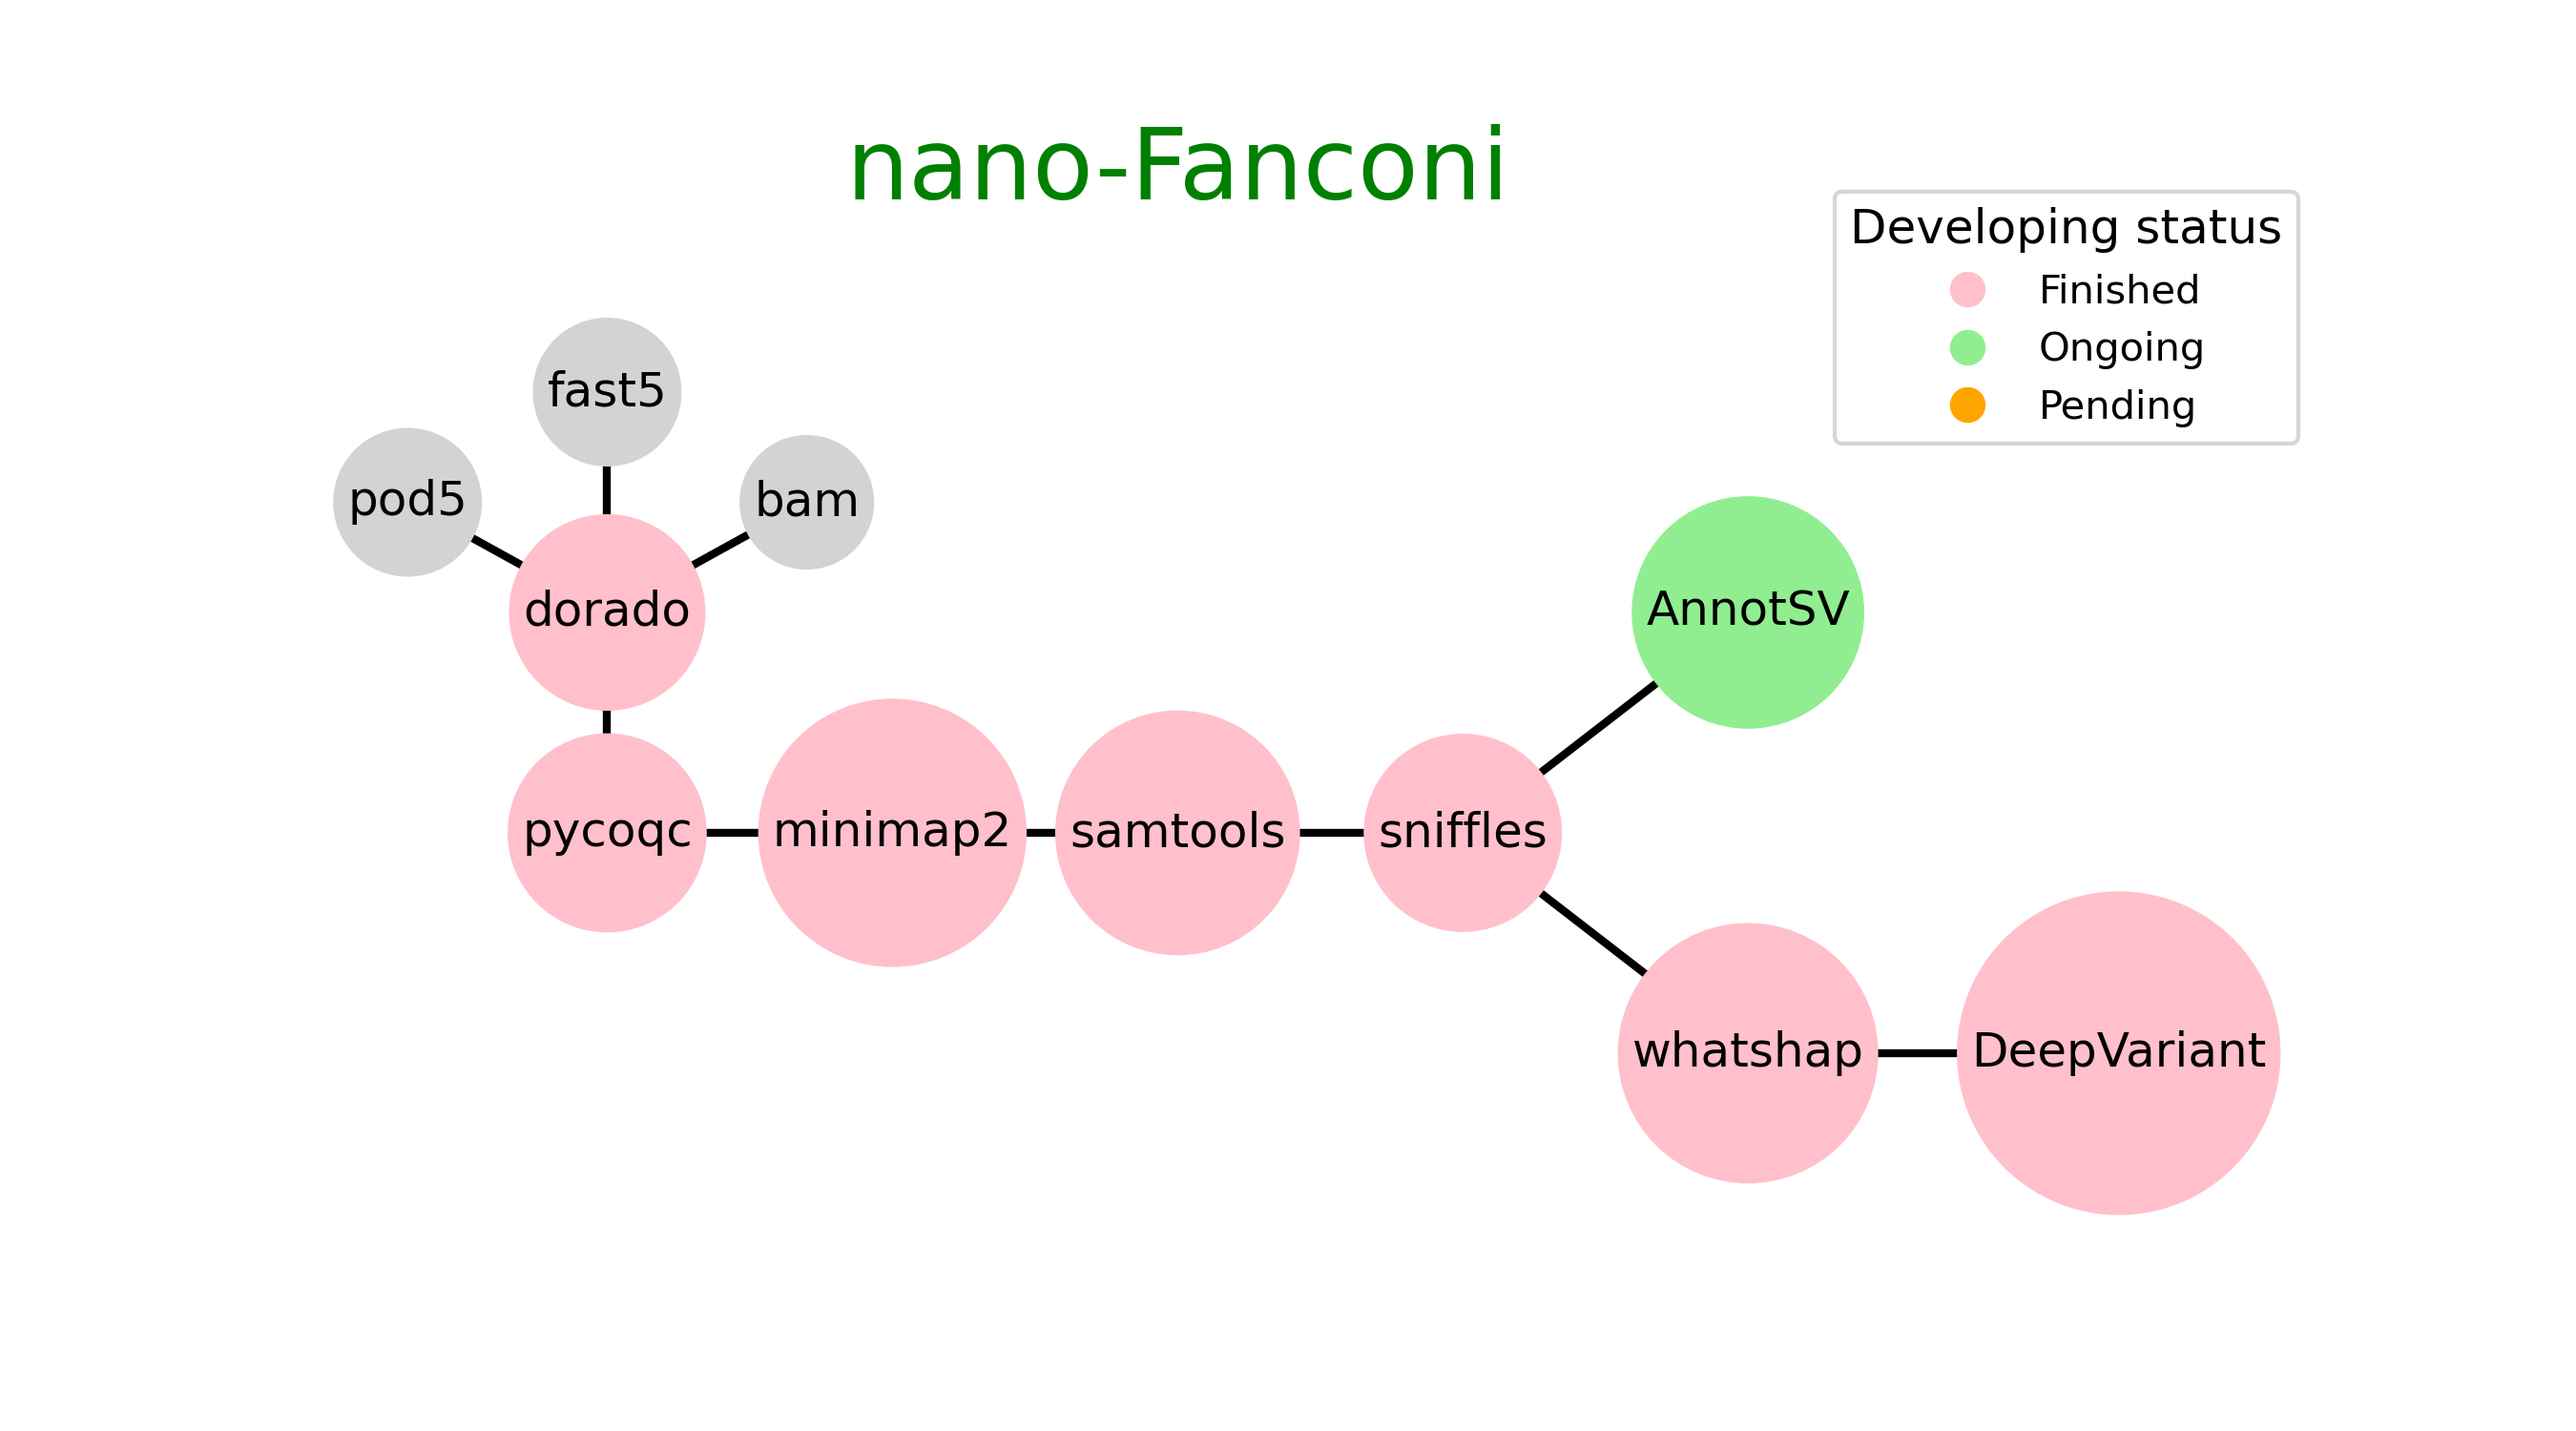
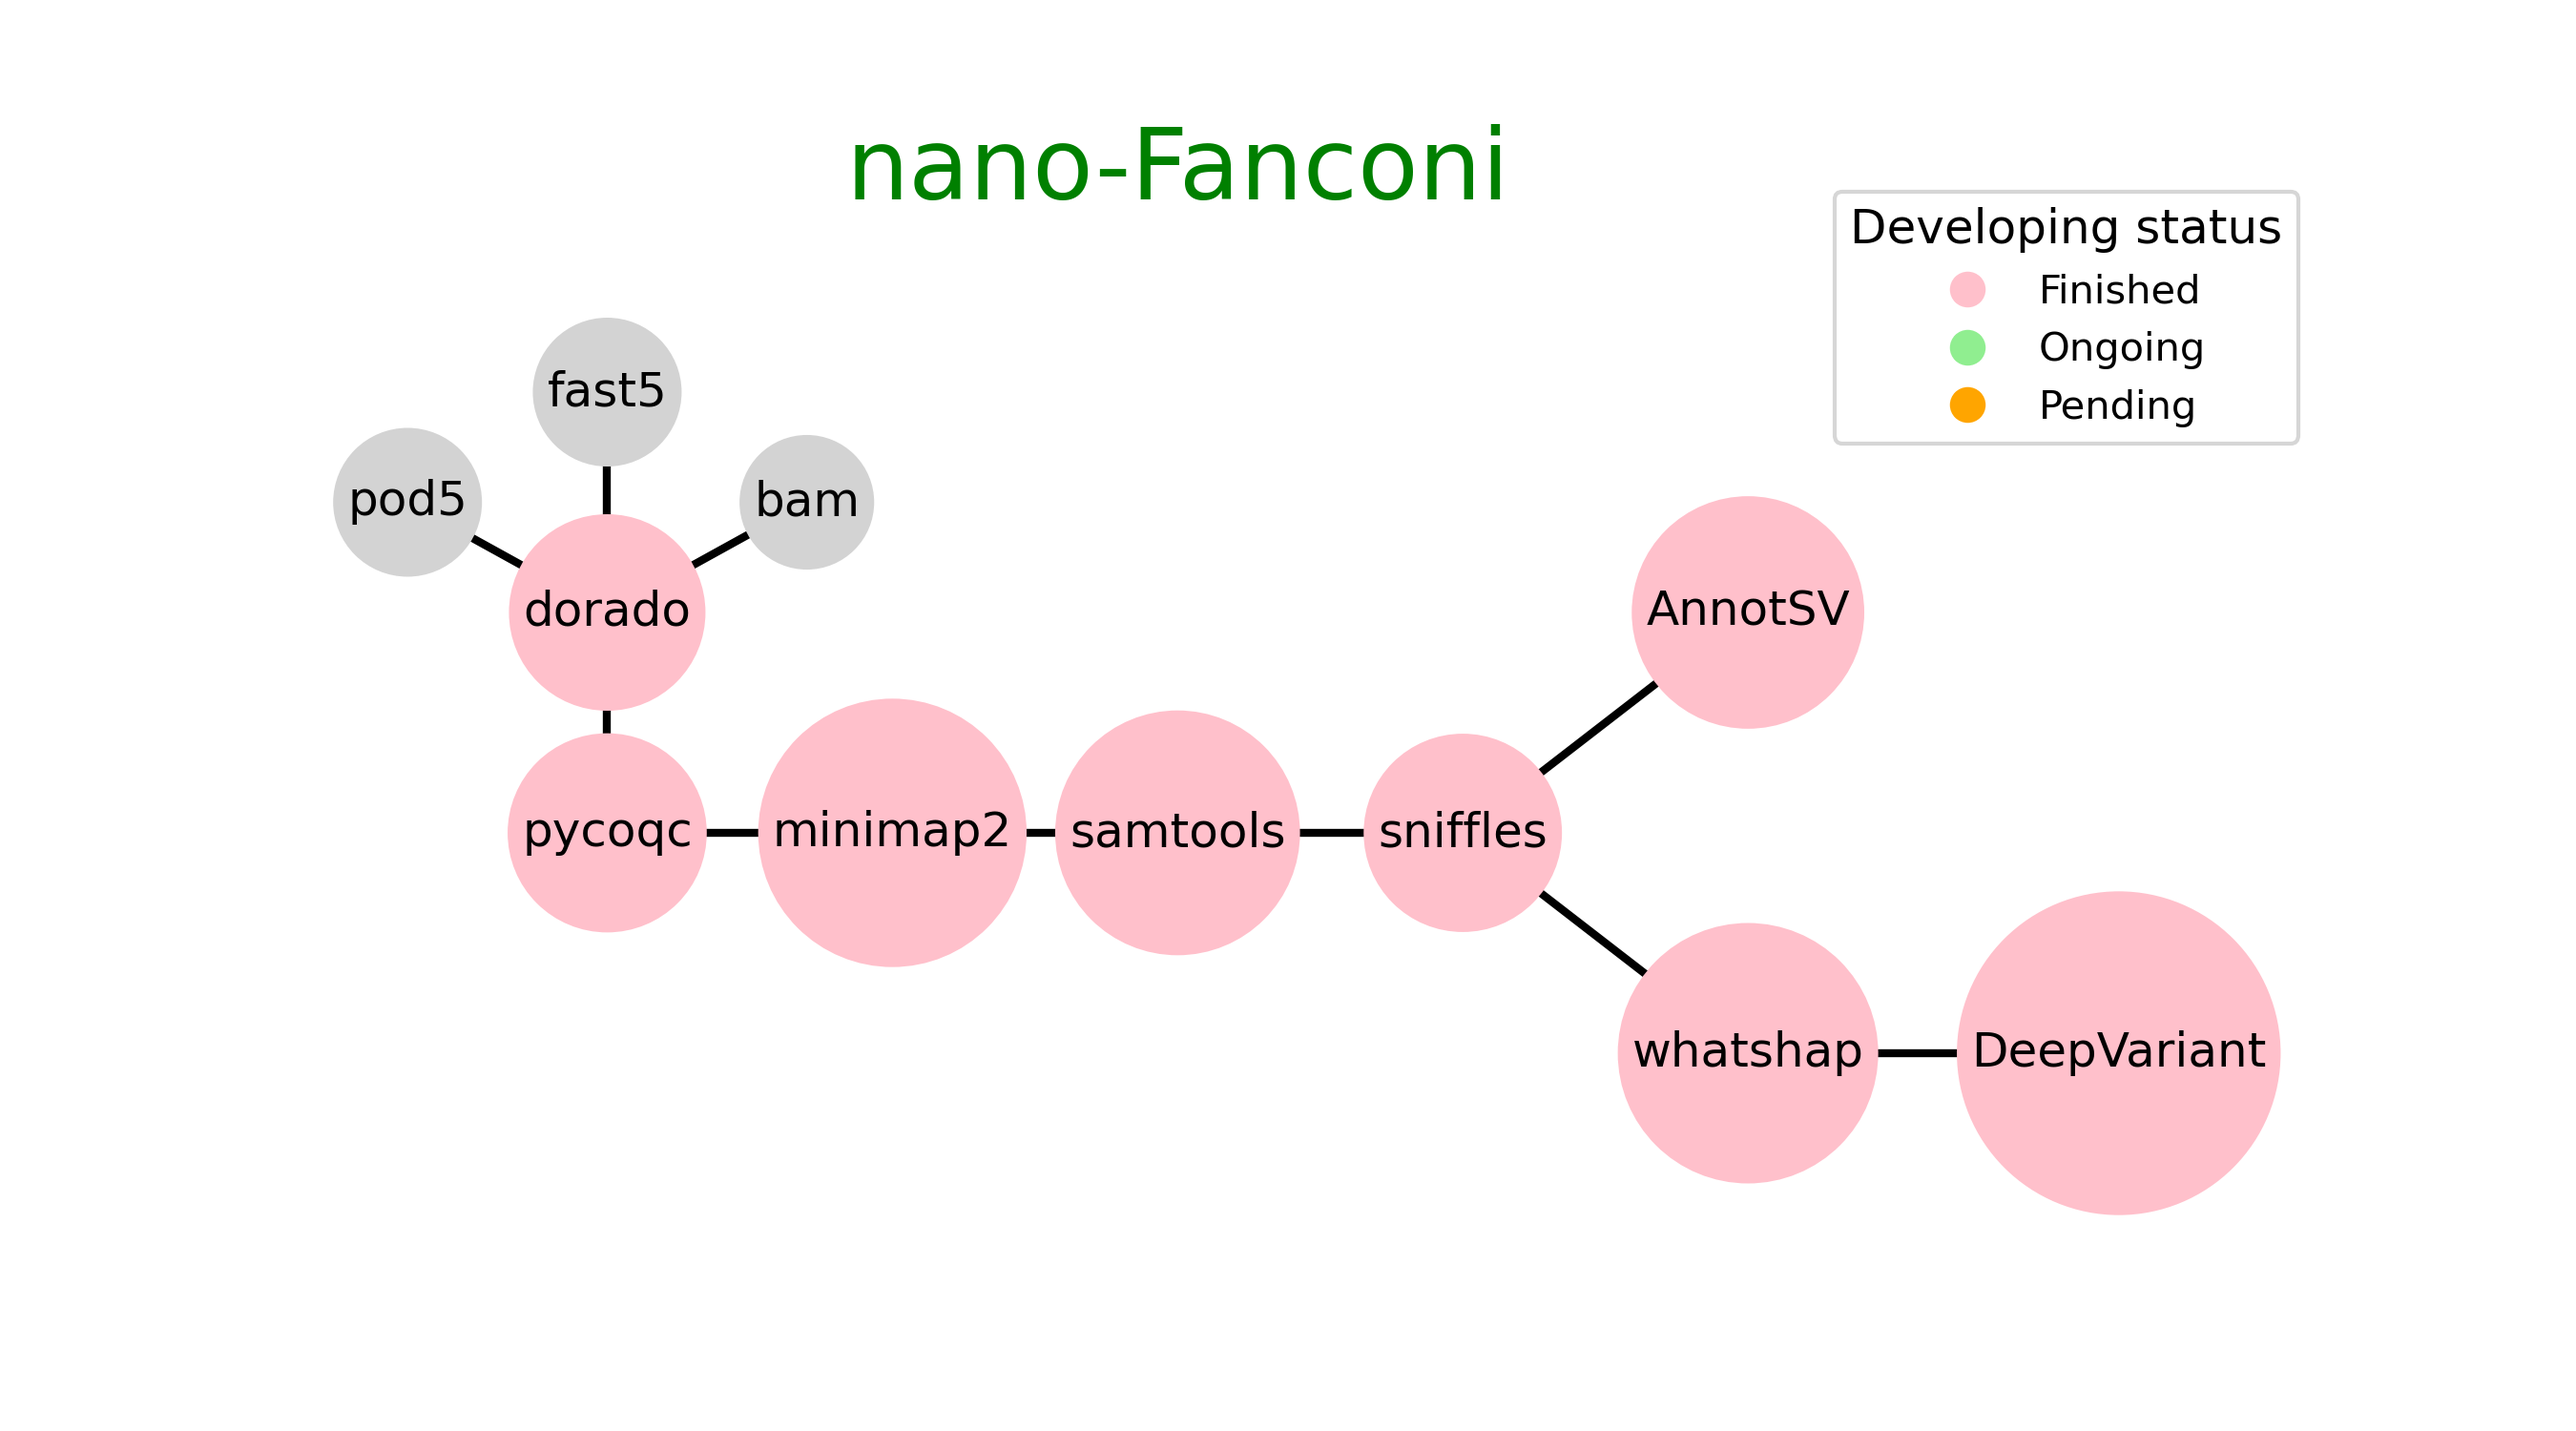
undo mount vcf file

Changed region(s): [[0.6222, 0.3373, 0.7467, 0.5213]]

diff --git a/docs/pipeline_overview_fig.py b/docs/pipeline_overview_fig.py
@@ -43,7 +43,6 @@ node_colors = {
     "fast5": "lightgrey",
     "pod5": "lightgrey",
     "bam": "lightgrey",
-    "AnnotSV": "lightgreen",
     "default": "pink",
 }
 
